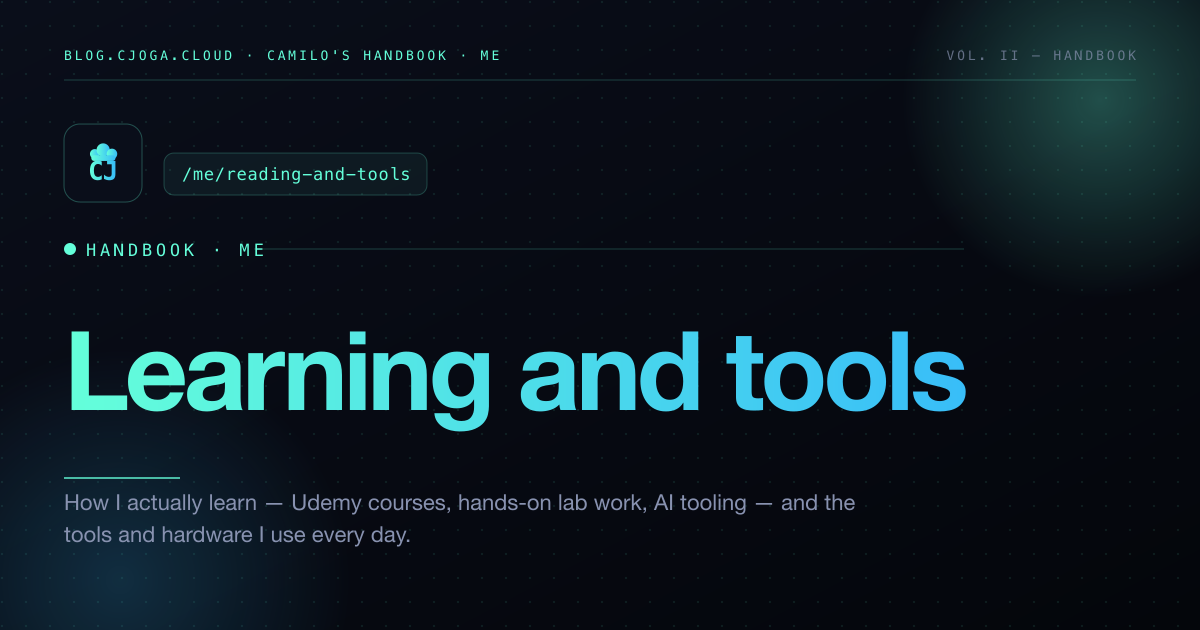
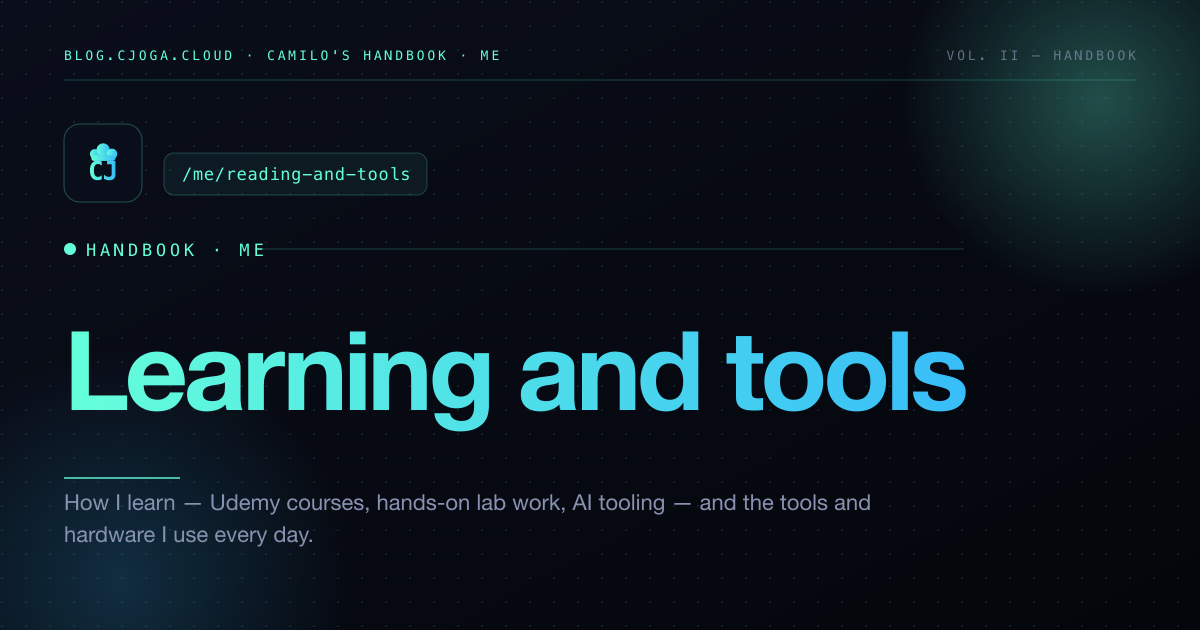
docs(handbook): vary essay closers, cut filler, de-identify clients
Five of seven opinion essays ended on the same 'the discipline is'
aphorism — one keeps it, four now end on the concrete example.
Intensifier counts brought inside the STYLE.md budget, and the two
passages that made end clients inferable are generalized.

Changed region(s): [[0.0617, 0.7841, 0.74, 0.8746]]

diff --git a/docs/superpowers/plans/2026-07-04-ws-k-handbook-prose.md b/docs/superpowers/plans/2026-07-04-ws-k-handbook-prose.md
@@ -1,0 +1,59 @@
+# WS-K — Handbook prose remediation (2026-07-04)
+
+Workstream K of the audit remediation wave. Scope: `blog-site/docs/**` prose only.
+Source: AUDIT-2026-07-04.md §6 + STYLE.md rubric. Voice preservation over volume.
+
+## Budgets (verify targets)
+
+- `actually` site-wide ≤ 12 (from 33). Untouched files carry 8
+  (rhcsa ×2, now ×2, lab/overview ×1, longhorn ×1, arctiq ×1, opinions/index ×1);
+  edited files keep 3 that carry real contrast (who-i-am:64, certifications-expire:25,
+  keep-it-stupidly-simple:27 bolded question). All others cut.
+- `genuinely` site-wide ≤ 4 (from 11). Untouched files carry exactly 4
+  (rhcsa ×2, openbao-auto-unseal ×1, longhorn ×1); every occurrence in edited files cut.
+- "I want to be honest / honestly" motif ≤ 2 site-wide: keep only
+  openbao-over-vault ("Where Vault still wins is at enterprise scale, and I want to
+  be honest about that"). Cut/rephrase in terraform-over-bicep, self-hosting-privilege,
+  certifications-expire (×2 incl. closer), openbao "weigh it honestly".
+- "discipline" closers ≤ 2: keep only terraform-over-bicep. At least 4 of 7 essays
+  end on the concrete example: keep-it-stupidly-simple, ai-in-devops-power-user,
+  certifications-expire, openbao-over-vault.
+- No client names; no on-call clichés; memoir voice only on who-i-am.
+
+## Files to touch
+
+| File | Why |
+|---|---|
+| `me/opinions/ai-in-devops-power-user.mdx` | Rewrite "The discipline is straightforward" closer to end concrete (the two-hours→twenty-minutes measurement); cut 2× "actually". |
+| `me/opinions/certifications-expire.mdx` | Rewrite "So the discipline is simple" closer to end concrete (GitLab badges lapsed, hours to CKAD); thin honesty motif ("worth being honest about", "expire honestly"); cut desc/body "actually" except line 25 (real contrast). |
+| `me/opinions/devops-title-2026.mdx` | Fix two cleft inversions ("What grows from here is…", "What is fading is…"); cut 2× "actually" (desc + line 19). Closer already discipline-free — keep its shape. |
+| `me/opinions/keep-it-stupidly-simple.mdx` | Re-end on the concrete "still tuning it" story (fold the final abstract moral in before it); keep the bolded "what does the dumb solution actually cost?" (earned contrast); cut 2 other "actually". |
+| `me/opinions/openbao-over-vault.mdx` | Rewrite "That's the discipline I try to keep" closer to end on the auto-unseal concrete; cut "genuinely", 3× "actually", "weigh it honestly"; keep the one site-wide "I want to be honest". |
+| `me/opinions/self-hosting-privilege.mdx` | Remove "The takeaway is the discipline, not the inventory" scaffold from closer; drop "I want to be honest about the gating cost" framing; soften desc. |
+| `me/opinions/terraform-over-bicep.mdx` | Keeps the one allowed "discipline" closer. Cut "I want to be honest about that" (line 22), "genuinely defensible", desc "honest case". |
+| `me/reading-and-tools.mdx` | Convert ~13 of 41 em-dashes to periods/commas/colons (prose only — leave structural list separators); cut 4× "actually", 4× "genuinely". |
+| `me/who-i-am.mdx` | De-identify line 82 ("global platform with traffic across AME, EMEA, and AP" → drop region enumeration); cut 4× "actually" (keep line 64 contrast), 1× "genuinely". Memoir voice preserved. |
+| `me/index.mdx` | "Eleven certifications earned" card description → dateless phrasing; mirror reading-and-tools desc fix. No `last_update` added (card-grid landing has no date frontmatter by design — deviation noted below). |
+| `me/credentials.mdx` | "Eleven certifications earned" → "11 certifications earned as of mid-2026". |
+| `engineering/work/inspyr-global-solutions.mdx` | Line 39: drop "one of the biggest Azure consumers in the world" superlative AND the Microsoft-preview detail → "very large multi-region Azure platform" framing; replace cryptic "It could not have been any other language." with explicit PowerShell rationale. |
+| `engineering/work/kodepull.mdx` | Remove "On this page I'll describe…" throat-clearing (line 26); cut 1× "actually". |
+
+## Frontmatter
+
+Every meaningfully edited doc gets `last_update: {date: "2026-07-04", author: Jose Camilo Joga Guerrero}` —
+updated in place where the block exists (credentials, reading-and-tools, kodepull, inspyr),
+added where only `date:` exists (who-i-am, all 7 essays). `image:` fields and slugs untouched.
+Exception: `me/index.mdx` has no date frontmatter at all (landing page, no dateline eyebrow) — not adding one.
+
+## Not touched (and why)
+
+- `learn/rhcsa.mdx`, `me/now.mdx`, `engineering/lab/*`, `engineering/work/arctiq.mdx`,
+  `me/opinions/index.mdx` — their intensifiers either carry contrast or fit inside the
+  ≤12/≤4 budgets; editing them would force frontmatter churn for one-word diffs.
+- `certifications-expire.mdx` "earned eleven certifications" (lines 19/29) stays: the
+  essay is dated and the number is the argument's subject, not a drifting inventory count.
+
+## After edits
+
+`cd blog-site && npm run brand:og` (repo rule; idempotent). Then grep verification:
+client names → empty; actually ≤ 12; genuinely ≤ 4; discipline closers ≤ 2.
